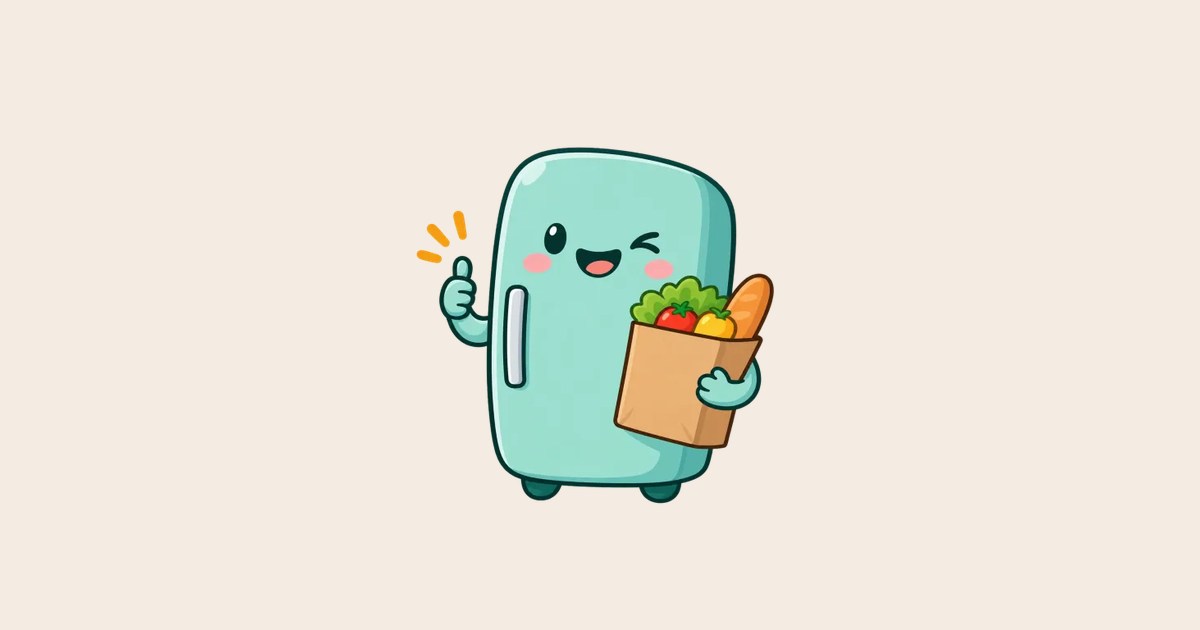
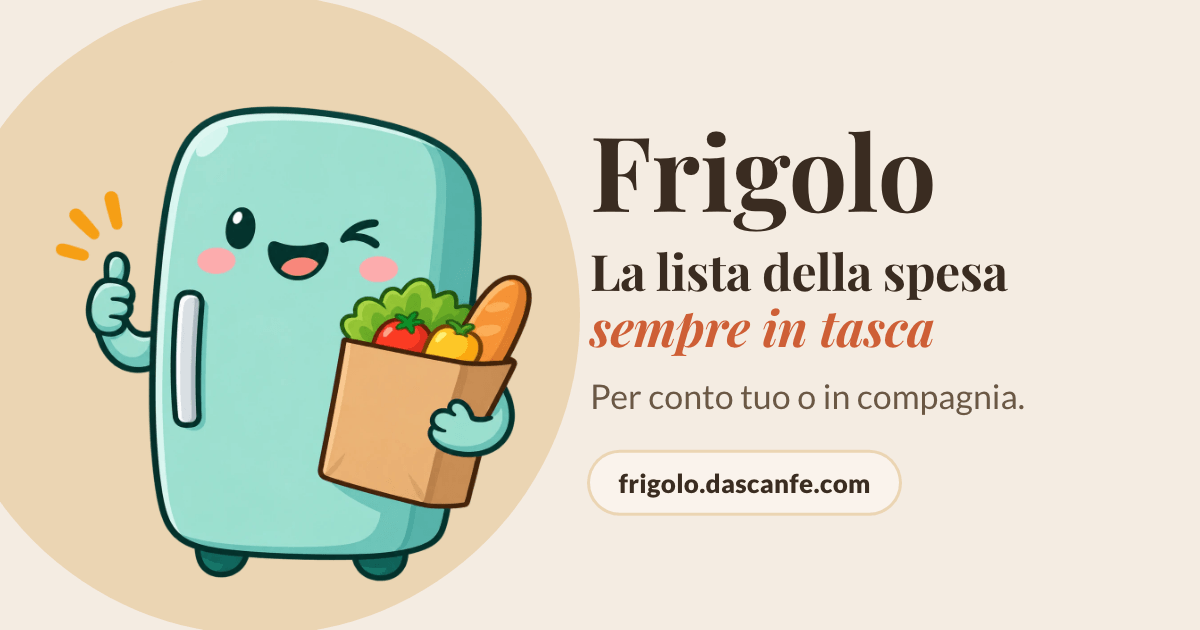
feat: immagine Open Graph definitiva e variante per gli inviti

diff --git a/index.html b/index.html
@@ -9,8 +9,8 @@
     />
     <meta name="theme-color" content="#DB6A2E" />
 
-    <!-- Anteprima dei link (WhatsApp, Telegram, ...). og-image.png è un segnaposto:
-         l'immagine definitiva la prepara Paprika, stesso nome e formato 1200x630 -->
+    <!-- Anteprima dei link (WhatsApp, Telegram, ...). og-image.png e og-invito.png si
+         rigenerano con marketing/kit/scripts/render.mjs (sorgente in marketing/kit/) -->
     <meta property="og:type" content="website" />
     <meta property="og:site_name" content="Frigolo" />
     <meta property="og:title" content="Frigolo" />
@@ -21,6 +21,10 @@
     <meta property="og:image" content="/og-image.png" />
     <meta property="og:image:width" content="1200" />
     <meta property="og:image:height" content="630" />
+    <meta
+      property="og:image:alt"
+      content="Frigolo, il frigorifero verde acqua con la busta della spesa, e la frase: La lista della spesa sempre in tasca"
+    />
     <meta name="twitter:card" content="summary_large_image" />
 
     <!-- PWA su iOS -->
